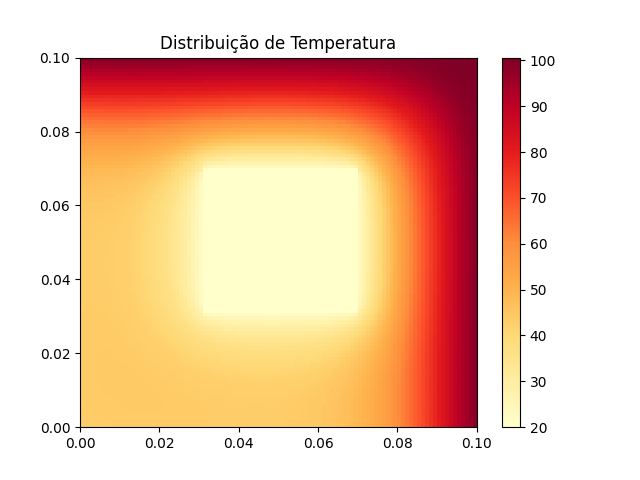
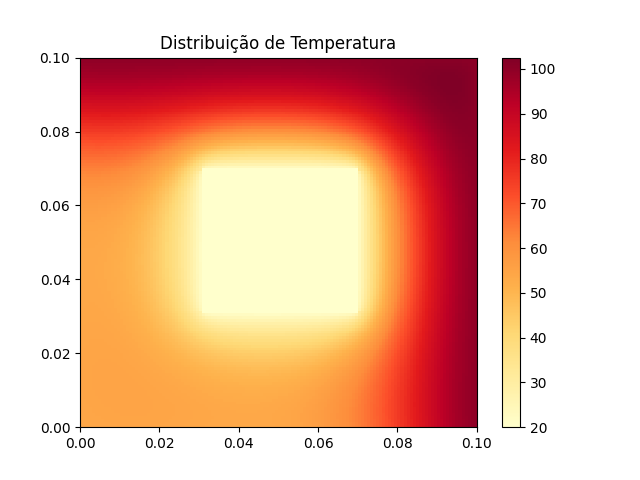
Mais correções

diff --git a/Trabalho 3/source/p2DHeat.py b/Trabalho 3/source/p2DHeat.py
@@ -4,7 +4,7 @@ import math
 
 # Variáveis do problema e do domínio:
 L = 0.1                  # comprimento total da placa ( Lx = Ly)
-N = 101                   # número de nós da malha (considerando N = M)
+N = 131                   # número de nós da malha (considerando N = M)
 tf = 120                # tempo final da simulação
 dx = L/(N-1)             # comprimento do intervalo (dx = dy)
 dt = 0.2                 # passo de tempo
@@ -50,12 +50,12 @@ def plot_v2(Temp):
 
     z = Temp
     # x and y are bounds, so z should be the value *inside* those bounds.
-    # Therefore, remove the last value from the z array.
-    z_min, z_max = -np.abs(z).max(), np.abs(z).max()
+    z_min = np.abs(z).min()
+    z_max = np.abs(z).max()
 
     fig, ax = plt.subplots()
 
-    c = ax.pcolormesh(x, y, z, cmap='YlOrRd', vmin=20, vmax=z_max)
+    c = ax.pcolormesh(x, y, z, cmap='YlOrRd', vmin=z_min, vmax=z_max)
     ax.set_title('Distribuição de Temperatura')
     # set the limits of the plot to the limits of the data
     ax.axis([x.min(), x.max(), y.min(), y.max()])
